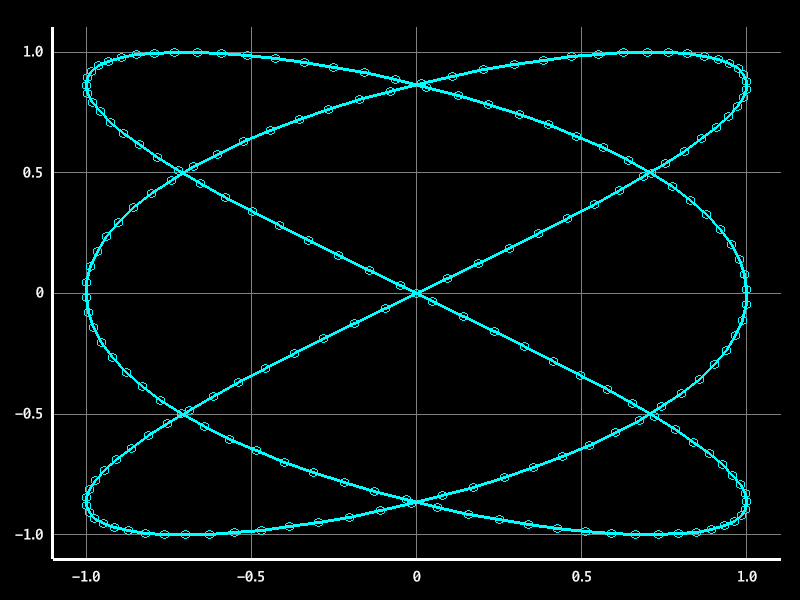
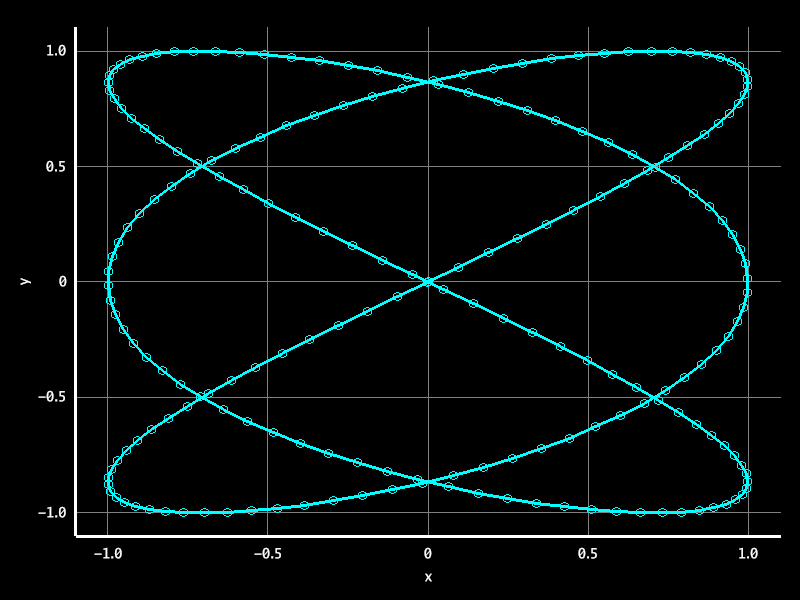
Name the axes from CSV headers when every series agrees

diff --git a/src/bin/termplt/data.rs b/src/bin/termplt/data.rs
@@ -35,6 +35,29 @@ impl Column {
 pub struct Parsed {
     pub points: Vec<Point<f64>>,
     pub skipped_missing: usize,
+    pub names: ColumnNames,
+}
+
+/// The header names of the columns a series was read from; `None` where a column has none.
+#[derive(Debug, Clone, Default, PartialEq, Eq)]
+pub struct ColumnNames {
+    pub x: Option<String>,
+    pub y: Option<String>,
+}
+
+/// The names to put on the axes: an axis is named only when every series has a name for it and
+/// all the names are the same (compared exactly).
+pub fn axis_names(series: &[ColumnNames]) -> ColumnNames {
+    fn agreed<'a>(mut names: impl Iterator<Item = &'a Option<String>>) -> Option<String> {
+        let first = names.next()?.clone()?;
+        names
+            .all(|name| name.as_deref() == Some(first.as_str()))
+            .then_some(first)
+    }
+    ColumnNames {
+        x: agreed(series.iter().map(|s| &s.x)),
+        y: agreed(series.iter().map(|s| &s.y)),
+    }
 }
 
 /// Parses inline points: "(1,2),(3,4)", "(1, 2) (3, 4)", "1,2 3,4" or "1,2;3,4".
@@ -179,6 +202,16 @@ impl Table {
         }
     }
 
+    /// The header text of a resolved column; `None` for the row number, a table without a
+    /// header, or an empty header cell.
+    fn header_name(&self, column: &Column) -> Option<String> {
+        let Column::Index(i) = column else {
+            return None;
+        };
+        let name = self.header.as_ref()?.get(*i)?.trim();
+        (!name.is_empty()).then(|| name.to_string())
+    }
+
     fn column_label(&self, column: &Column) -> String {
         match column {
             Column::Index(i) => match self.header.as_ref().and_then(|h| h.get(*i)) {
@@ -209,7 +242,13 @@ impl Table {
             return Err("the y column cannot be 'index'".into());
         }
 
-        let mut parsed = Parsed::default();
+        let mut parsed = Parsed {
+            names: ColumnNames {
+                x: self.header_name(&x),
+                y: self.header_name(&y),
+            },
+            ..Parsed::default()
+        };
         for (row_number, (line, fields)) in self.rows.iter().enumerate() {
             let value = |column: &Column, axis: &str| -> Result<Option<f64>> {
                 let token = match column {
@@ -276,6 +315,87 @@ mod tests {
 
     fn pts(v: &[(f64, f64)]) -> Vec<Point<f64>> {
         v.iter().map(|&(x, y)| Point::new(x, y)).collect()
+    }
+
+    fn names(x: Option<&str>, y: Option<&str>) -> ColumnNames {
+        ColumnNames {
+            x: x.map(str::to_string),
+            y: y.map(str::to_string),
+        }
+    }
+
+    #[test]
+    fn points_report_the_header_names_of_their_columns() {
+        let table = Table::parse("time,temp,humidity\n0,20,50\n1,21,51\n");
+        let named = |x: Option<Column>, y: Option<Column>| {
+            table.points(x.as_ref(), y.as_ref(), "t").unwrap().names
+        };
+        assert_eq!(named(None, None), names(Some("time"), Some("temp")));
+        // -x 3
+        assert_eq!(
+            named(Some(Column::Index(2)), None),
+            names(Some("humidity"), Some("temp"))
+        );
+        // names match ignoring case, but the header's own text is reported
+        assert_eq!(
+            named(None, Some(Column::Name("HUMIDITY".into()))),
+            names(Some("time"), Some("humidity"))
+        );
+        // -x index
+        assert_eq!(
+            named(Some(Column::RowNumber), None),
+            names(None, Some("temp"))
+        );
+    }
+
+    #[test]
+    fn columns_without_a_header_name_have_none() {
+        let named = |content: &str| Table::parse(content).points(None, None, "t").unwrap().names;
+        assert_eq!(named("0,20\n1,21\n"), ColumnNames::default());
+        // a single column is plotted against the row number
+        assert_eq!(named("temp\n20\n21\n"), names(None, Some("temp")));
+        assert_eq!(named("time,\n0,20\n"), names(Some("time"), None));
+        // quoted and padded header cells give clean names
+        assert_eq!(
+            named("\"time (s)\" , temp\n0,20\n"),
+            names(Some("time (s)"), Some("temp"))
+        );
+    }
+
+    #[test]
+    fn axes_are_named_only_when_every_series_agrees() {
+        let temps = names(Some("time"), Some("temp"));
+        let cases = [
+            (vec![temps.clone()], names(Some("time"), Some("temp"))),
+            // -y temp,humidity: two different y names
+            (
+                vec![temps.clone(), names(Some("time"), Some("humidity"))],
+                names(Some("time"), None),
+            ),
+            // two files with the same header
+            (
+                vec![temps.clone(), temps.clone()],
+                names(Some("time"), Some("temp")),
+            ),
+            (
+                vec![temps.clone(), names(Some("t"), Some("temp"))],
+                names(None, Some("temp")),
+            ),
+            // inline data has no names
+            (
+                vec![temps.clone(), ColumnNames::default()],
+                names(None, None),
+            ),
+            // compared exactly
+            (
+                vec![names(Some("Time"), Some("temp")), temps.clone()],
+                names(None, Some("temp")),
+            ),
+            (vec![], names(None, None)),
+        ];
+        for (series, expected) in cases {
+            assert_eq!(axis_names(&series), expected, "{series:?}");
+        }
     }
 
     // -- inline data --

diff --git a/src/bin/termplt/main.rs b/src/bin/termplt/main.rs
@@ -4,7 +4,7 @@ mod series;
 
 use clap::{CommandFactory, Parser};
 use cli::Cli;
-use data::{Column, Table};
+use data::{Column, ColumnNames, Table};
 use series::{SeriesSpec, Source, Style};
 use std::{
     error::Error,
@@ -71,11 +71,13 @@ fn run(cli: Cli) -> Result<()> {
     };
 
     let mut stdin_cache = None;
+    let mut column_names = Vec::new();
     let mut plot = Plot::new()
         .background(series::parse_color(&cli.bg)?)
         .grid(!cli.no_grid);
     for (index, spec) in specs.iter().enumerate() {
-        let points = load_points(spec, &mut stdin_cache)?;
+        let (points, names) = load_points(spec, &mut stdin_cache)?;
+        column_names.push(names);
         let series = series::build_series(&points, &spec.style.or(&defaults), index)?;
         if cli.verbose {
             eprintln!(
@@ -87,6 +89,13 @@ fn run(cli: Cli) -> Result<()> {
             );
         }
         plot = plot.series(series);
+    }
+    let names = data::axis_names(&column_names);
+    if let Some(name) = names.x {
+        plot = plot.x_label(name);
+    }
+    if let Some(name) = names.y {
+        plot = plot.y_label(name);
     }
     if let Some((min, max)) = cli.xlim {
         plot = plot.x_limits(min, max);
@@ -236,12 +245,12 @@ fn collect_specs(cli: &Cli, stdin_is_piped: bool) -> Result<Vec<SeriesSpec>> {
 fn load_points(
     spec: &SeriesSpec,
     stdin_cache: &mut Option<String>,
-) -> Result<Vec<termplt::plotting::point::Point<f64>>> {
+) -> Result<(Vec<termplt::plotting::point::Point<f64>>, ColumnNames)> {
     let source = spec.source.describe();
-    let (points, skipped_missing) = match &spec.source {
+    let (points, skipped_missing, names) = match &spec.source {
         Source::Inline(s) => {
             let points = data::parse_inline(s).map_err(|e| format!("{source}: {e}"))?;
-            (points, 0)
+            (points, 0, ColumnNames::default())
         }
         Source::File(path) => {
             let content = if path == "-" {
@@ -259,7 +268,7 @@ fn load_points(
             };
             let name = if path == "-" { "stdin" } else { path.as_str() };
             let parsed = Table::parse(&content).points(spec.x.as_ref(), spec.y.as_ref(), name)?;
-            (parsed.points, parsed.skipped_missing)
+            (parsed.points, parsed.skipped_missing, parsed.names)
         }
     };
 
@@ -281,7 +290,7 @@ fn load_points(
     if points.is_empty() {
         return Err(format!("no data points found in {source}").into());
     }
-    Ok(points)
+    Ok((points, names))
 }
 
 #[cfg(test)]
@@ -364,7 +373,7 @@ mod tests {
     #[test]
     fn load_points_skips_non_finite_values() {
         let spec = SeriesSpec::new(Source::Inline("(1,nan),(2,2),(inf,3),(4,4)".into()));
-        let points = load_points(&spec, &mut None).unwrap();
+        let points = load_points(&spec, &mut None).unwrap().0;
         assert_eq!(points.len(), 2);
         let spec = SeriesSpec::new(Source::Inline("(nan,1),(2,-inf)".into()));
         assert!(load_points(&spec, &mut None).is_err());
@@ -374,7 +383,7 @@ mod tests {
     fn load_points_reuses_cached_stdin() {
         let spec = SeriesSpec::new(Source::File("-".into()));
         let mut cache = Some("x,y\n1,2\n3,4\n".to_string());
-        assert_eq!(load_points(&spec, &mut cache).unwrap().len(), 2);
-        assert_eq!(load_points(&spec, &mut cache).unwrap().len(), 2);
+        assert_eq!(load_points(&spec, &mut cache).unwrap().0.len(), 2);
+        assert_eq!(load_points(&spec, &mut cache).unwrap().0.len(), 2);
     }
 }
